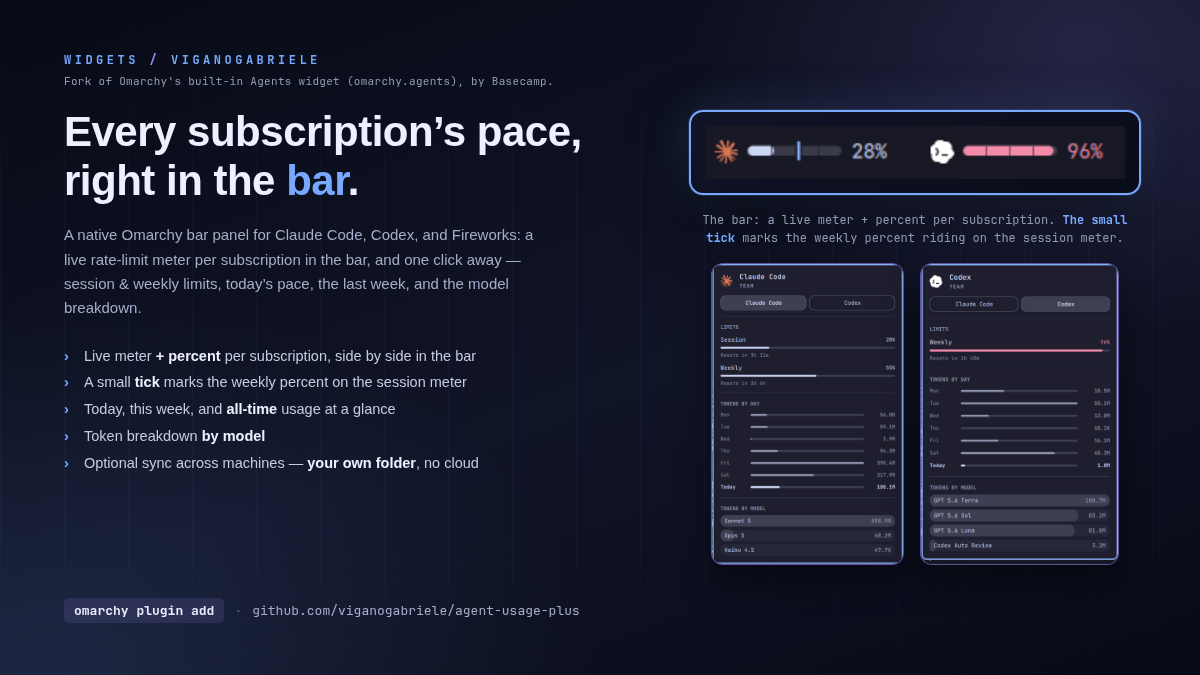
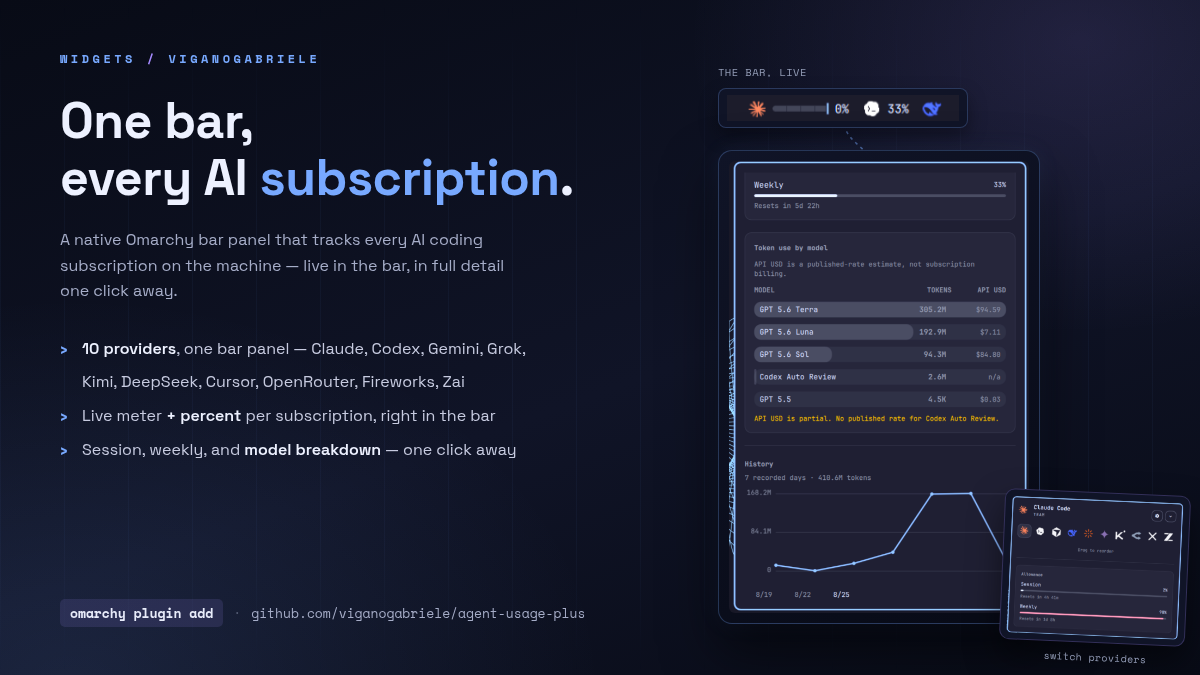
Refresh README and release images

diff --git a/README.md b/README.md
@@ -2,17 +2,14 @@
 
 ![Agent Usage Plus](preview.png)
 
-![Bar widget](screenshots/bar-widget.png)
-![Claude Code panel](screenshots/claude-panel.png)
-![Codex panel](screenshots/codex-panel.png)
+<p align="center">
+  <img src="preview-full.png" alt="Usage panel with session, weekly, model and history breakdowns" width="49%">
+  <img src="preview-providers.png" alt="Provider configuration and bar preview" width="49%">
+</p>
 
 Native Omarchy bar widget for AI coding usage, limits, balances, pace, costs
 and history. It reads Omarchy and local collector records, so it works with
-both subscriptions and API accounts without storing credentials.
-
-Requires Omarchy with Quickshell plugin support; the plugin itself has no
-other runtime dependencies. Optional collector dependencies and setup are
-documented in [collector setup](collectors/README.md).
+subscriptions and API accounts without storing credentials.
 
 ## Install
 
@@ -37,7 +34,7 @@ omarchy plugin remove io.github.viganogabriele.agent-usage-plus
 Claude Code, Codex, Fireworks, OpenRouter, DeepSeek, Gemini, Cursor, Kimi,
 xAI/Grok and Z.AI/GLM.
 
-Claude Code and Codex use Omarchy's built-in records. The other providers are
+Claude Code and Codex use Omarchy's built-in records. Other providers use the
 optional collectors:
 
 ```bash
@@ -45,12 +42,16 @@ optional collectors:
 ~/.local/share/agent-usage-plus-collectors/bin/agent-usage-plus-collectors update
 ```
 
+Requires Omarchy with Quickshell plugin support. The plugin has no other
+runtime dependency; optional collector setup is documented in
+[collectors/README.md](collectors/README.md).
+
 The widget follows Omarchy's live theme. Warn is fixed amber (`#F2B705`), and
 notifications are off by default; when enabled, each provider alerts once at
 Warn and once at Critical.
 
-More: [collector setup](collectors/README.md), [record contract](docs/collector-contract.md),
-[manual QA](docs/manual-qa.md), [troubleshooting](docs/troubleshooting.md) and
-[contributing](CONTRIBUTING.md).
+Details: [collector setup](collectors/README.md),
+[record contract](docs/collector-contract.md), [manual QA](docs/manual-qa.md),
+[troubleshooting](docs/troubleshooting.md), [contributing](CONTRIBUTING.md).
 
 MIT licensed; see [LICENSE](LICENSE).
